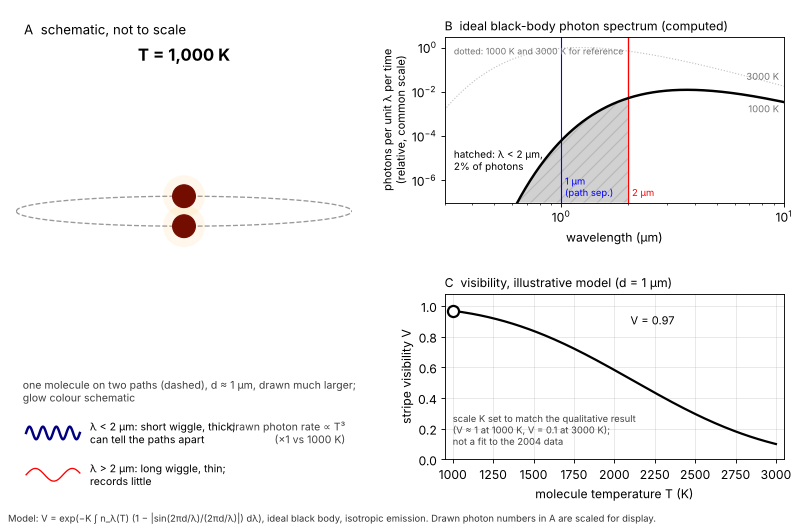
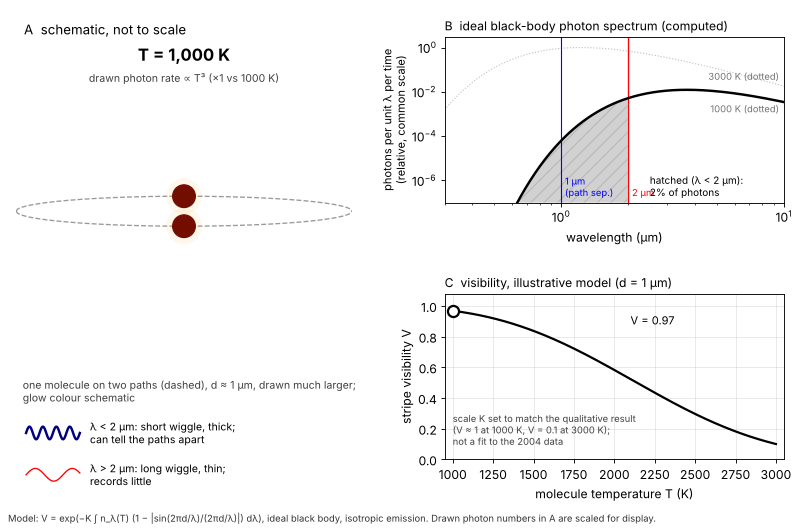
Explanation B (which-path): Experiment 1 animation
Claude-Session: https://claude.ai/code/session_011EeWx5AEdppYiarvRbDBmd

diff --git a/work/20261008-142932-which-path-decoherence/checks/anim_b-anim-hot-molecule.py b/work/20261008-142932-which-path-decoherence/checks/anim_b-anim-hot-molecule.py
@@ -86,10 +86,14 @@ NF = len(Ts)
 # ---- photon sampling (Panel A)
 rng = np.random.default_rng(7)
 lam_s = np.logspace(np.log10(0.2e-6), np.log10(60e-6), 3000)
+_q = [0.0]
 def sample_lambda(T):
+    # quantile from a golden-ratio sequence (low-discrepancy) so the drawn short/long mix
+    # tracks the black-body share closely even with few photons on screen
     w = n_lam(lam_s, T) * lam_s  # density per log-lambda
     cdf = np.cumsum(w); cdf /= cdf[-1]
-    return np.interp(rng.random(), cdf, lam_s)
+    _q[0] = (_q[0] + 0.6180339887) % 1.0
+    return np.interp(_q[0], cdf, lam_s)
 
 RATE3000 = 1.4  # drawn photons per frame at 3000 K (display scale only)
 LIFE = 9        # frames a photon stays on screen
@@ -163,7 +167,7 @@ axB.set_ylabel("photons per unit λ per time\n(relative, common scale)", fontsiz
 axB.set_title("B  ideal black-body photon spectrum (computed)", fontsize=11, loc="left")
 lineB, = axB.loglog([], [], "k-", lw=2.2)
 fillB = [None]
-fracTxt = axB.text(2.5, 2e-7, "", fontsize=9)
+fracTxt = axB.text(3.0, 2e-7, "", fontsize=9)
 
 # Panel C static
 axC.plot(Tgrid, Vgrid, "k-", lw=2)

diff --git a/work/20261008-142932-which-path-decoherence/figures/b-anim-one-photon.caption.md b/work/20261008-142932-which-path-decoherence/figures/b-anim-one-photon.caption.md
@@ -1,0 +1,1 @@
+Experiment 1 (Chapman et al., 1995) as the laser slides along the beam, so the separation d of the two paths at the moment of scattering grows from 0 to 2 photon wavelengths λ. Panel A is a schematic, not to scale: in the real set-up d at the laser is at most about 1.2 µm, while at the middle grating the paths are tens of µm apart. Each new atom scatters a random number of photons (drawn from a Poisson distribution with mean 1, so some atoms scatter none and some several), and nobody detects them. Panels B and C are computed from a simple model: emission equally likely in all directions (the real atom has a dipole pattern, which changes the details but not the half-wavelength scale); each photon multiplies the stripes by the signed overlap c(d) = sin(2πd/λ)/(2πd/λ); the photon number is Poisson with mean 1, which gives a visibility for all arriving atoms of exp(−(1 − c(d))); and the visibility with the laser off is set to 1. The common kick from absorbing laser photons is left out. What to notice: (1) atoms keep arriving and the mean count stays the same; only the stripe depth changes. (2) The total visibility (black) is lowest, about 0.30, at d ≈ 0.72λ, a little beyond λ/2, where the one-photon overlap is most negative. It comes partly back, to about 0.42 near d ≈ 1.23λ, then dips again (about 0.34 near 1.74λ) and settles towards e⁻¹ ≈ 0.37, the share of atoms that scattered no photon and so keep full stripes. It never reaches zero. (3) In panel B, the atoms that scattered exactly one photon (red dashed) have stripes shifted by half a period whenever c(d) is negative (between λ/2 and λ, and again between 1.5λ and 2λ). The total for all atoms is never shifted, because exp(−(1 − c)) is always positive. Only the ratio d/λ matters.
